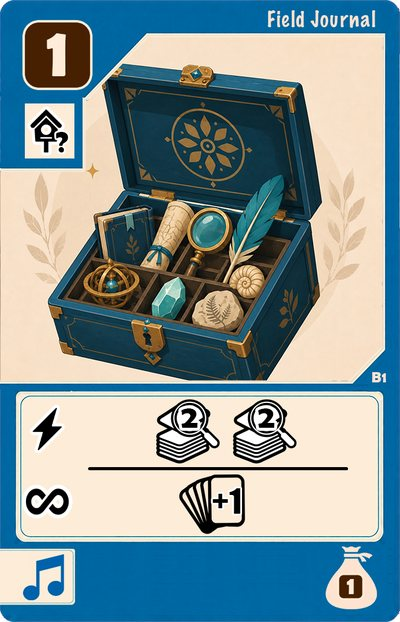
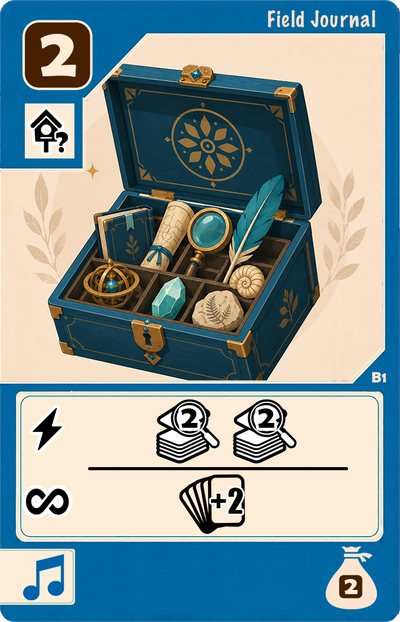
Reliques mises à jour : Field Journal, Scholar's Satchel, Surveyor's Map, Master's Diploma, Hidden Sanctuary, Soul Reliquary
Claude-Session: https://claude.ai/code/session_01SHozX5HundNPyrWALMPoiv

Changed region(s): [[0.09, 0.0305, 0.21, 0.1222], [0.51, 0.7637, 0.63, 0.8248], [0.87, 0.9164, 0.9, 0.9775]]

diff --git a/engine.js b/engine.js
@@ -110,7 +110,7 @@ class Game{
   shrineFree(p){const cap=l=>[2,3,4,5][l]+this.rm(p,4); return p.built.shrine.map(l=>({l,free:cap(l)-p.tableau.filter(e=>e.shrine===l).reduce((s,e)=>s+this.relicSpace(p,this.card(e.id)),0)}));}
   allyOK(p,c){const miss=c.req.filter(r=>!r.f(this,p)).length; return miss<=(p.allyDiscount||0);}
   birdCost(p,c){let n=c.cost; const m1=x=>Math.max(1,x);
-    if(c.family==='Academy'&&this.has(p,'OB4')) n=m1(n-2); if(c.family==='Legion'&&this.has(p,'OR4')) n=m1(n-2); if(c.family==='Circle'&&this.has(p,'OP1')) n=m1(n-1);
+    if(c.family==='Academy'&&this.has(p,'OB4')) n=m1(n-1); if(c.family==='Legion'&&this.has(p,'OR4')) n=m1(n-2); if(c.family==='Circle'&&this.has(p,'OP1')) n=m1(n-1);
     if(c.cost>=4&&this.has(p,'OY5')) n=Math.max(0,n-1); return n;}
   async anyAction(p){const isl=ISLANDS[p.flock]; const acts=this.boardActionOptions(p,isl,null);
     const o=await this.ask(p,{title:'Action au choix',options:[...acts,{label:'Jouer 1 carte',value:'play',score:1.5},{label:'Couvée',value:'brood',score:2}]});
@@ -149,12 +149,10 @@ class Game{
     await hook('ON6',null,'Forager\'s Basket : défausser 1 carte pour 1 ver + 1 graine + 1 fruit ?',async()=>{p.food.worm++;p.food.seed++;p.food.fruit++; this.eco(p,'gain',3); this.log(`${p.name} gagne 1 ver, 1 graine et 1 fruit.`);},2);}
   extras(p){const out=[];
     if(this.has(p,'ON3')&&!p.tableau.find(e=>e.id==='ON3').starTaken&&p.food.worm>=2&&p.food.seed>=2&&p.food.fruit>=2) out.push({label:'Provision Cache : payer 2/2/2 pour 1 Étoile',value:{x:'ON3'},card:'ON3',score:5});
-    if(this.has(p,'OP8')) out.push({label:'Soul Reliquary : sacrifier pour 1 Étoile',value:{x:'OP8'},card:'OP8',score:5});
     if(this.has(p,'OP7')&&!p.tableau.find(e=>e.id==='OP7').starTaken&&FAMS.some(f=>p.hand.filter(id=>(this.card(id).tagMap||{})[f]).length>=4)) out.push({label:'Black Codex : défausser 4 cartes du même tag pour 1 Étoile',value:{x:'OP7'},card:'OP7',score:4});
     return out;}
   async doExtra(p,x){const e=p.tableau.find(e=>e.id===x);
     if(x==='ON3'){p.food.worm-=2;p.food.seed-=2;p.food.fruit-=2; this.eco(p,'spent',6); e.starTaken=true; await this.gainStar(p,'Provision Cache');}
-    else if(x==='OP8'){p.tableau.splice(p.tableau.indexOf(e),1); this.discardPile.push(x); this.log(`${p.name} sacrifie Soul Reliquary.`); await this.gainStar(p,'Soul Reliquary');}
     else if(x==='OP7'){const f=FAMS.find(f=>p.hand.filter(id=>(this.card(id).tagMap||{})[f]).length>=4); for(let i=0;i<4;i++){const opts=p.hand.filter(id=>(this.card(id).tagMap||{})[f]); const id=await this.ask(p,{title:`Défaussez une carte ${f} (${i+1}/4)`,options:opts.map(id=>({label:this.card(id).name,value:id,card:id,score:0}))}); p.hand.splice(p.hand.indexOf(id),1); this.discardPile.push(id);} e.starTaken=true; await this.gainStar(p,'Black Codex');}
     this.io.render();}
   drawFromDeck(){ if(!this.deck.length){ if(!this.discardPile.length) return null; this.deck=shuffle(this.discardPile); this.discardPile=[]; this.log('La défausse est remélangée dans la pioche.'); } return this.deck.pop(); }
@@ -222,9 +220,9 @@ class Game{
   async sacrifice(p,title,value){const opts=p.tableau.filter(e=>!e.justPlayed).map(e=>({label:this.card(e.id).name,value:{e},card:e.id,score:-this.keepValue(p,{e})}));
     p.seagulls.forEach((l,k)=>opts.push({label:`Mouette (niveau ${l})`,value:{gull:k},score:-this.keepValue(p,{gull:k})}));
     if(!opts.length) return false;
-    const ok=await this.ask(p,{title:title||'Sacrifier une de vos cartes en jeu ?',options:[{label:'Oui',value:true,score:value||0},{label:'Non',value:false,score:0.5}]}); if(!ok) return false;
+    const ok=await this.ask(p,{title:title||'Sacrifier une de vos cartes en jeu ?',options:[{label:'Oui',value:true,score:(value||0)+(this.has(p,'OP8')?1.2:0)},{label:'Non',value:false,score:0.5}]}); if(!ok) return false;
     const v=await this.ask(p,{title:'Que sacrifiez-vous ?',options:opts});
-    if(v.e){p.tableau.splice(p.tableau.indexOf(v.e),1); this.discardPile.push(v.e.id); this.log(`${p.name} sacrifie ${this.card(v.e.id).name}.`); const fx=window.CARD_FX[v.e.id]; if(this.has(p,'OP5')&&fx&&fx.i&&v.e.id!=='OP5'){this.log('Sacrificial Dagger : son effet ⚡ est résolu.'); await fx.i(this,p,{id:v.e.id,ds:0});}} else {p.seagulls.splice(v.gull,1); this.log(`${p.name} sacrifie une Mouette.`);}
+    if(v.e){p.tableau.splice(p.tableau.indexOf(v.e),1); this.log(`${p.name} sacrifie ${this.card(v.e.id).name}.`); if(this.has(p,'OP8')){p.hand.push(v.e.id); this.log(`Soul Reliquary : ${this.card(v.e.id).name} revient dans la main de ${p.name}.`);} else this.discardPile.push(v.e.id); const fx=window.CARD_FX[v.e.id]; if(this.has(p,'OP5')&&fx&&fx.i&&v.e.id!=='OP5'){this.log('Sacrificial Dagger : son effet ⚡ est résolu.'); await fx.i(this,p,{id:v.e.id,ds:0});}} else {p.seagulls.splice(v.gull,1); this.log(`${p.name} sacrifie une Mouette.`);}
     return true;}
   async exchangeFood(p,n=1){for(let i=0;i<n;i++){const have=['worm','seed','fruit'].filter(t=>p.food[t]>0); if(!have.length) return;
       const g=await this.ask(p,{title:'Échanger : donner…',options:[{label:'Ne pas échanger',value:null,score:0.3},...have.map(t=>({label:'1 '+FOOD_FR[t],value:t,score:t==='worm'?0:0.4}))]}); if(!g) return;
@@ -358,7 +356,7 @@ class Game{
       else if(t.k==='gull'){ const l=p.seagulls[t.i]; this.log(`Couvée — Mouette niveau ${l}`); await this.layEgg(p,1); if(l>=2) await this.elders(p,1); }
       else { const fx=window.CARD_FX[t.e.id]; this.log(`Couvée — ${this.card(t.e.id).name}`); await fx.b(this,p,t.e); }
       this.io.render(); }
-    const lim=6+(this.has(p,'OB1')?1:0); while(p.hand.length>lim){const c=await this.ask(p,{title:`Limite de main : défaussez jusqu'à ${lim} cartes`,options:p.hand.map(id=>({label:this.card(id).name,value:id,card:id,score:-this.cardValue(p,id)}))}); p.hand.splice(p.hand.indexOf(c),1); this.discardPile.push(c);}
+    const lim=6+(this.has(p,'OB1')?2:0); while(p.hand.length>lim){const c=await this.ask(p,{title:`Limite de main : défaussez jusqu'à ${lim} cartes`,options:p.hand.map(id=>({label:this.card(id).name,value:id,card:id,score:-this.cardValue(p,id)}))}); p.hand.splice(p.hand.indexOf(c),1); this.discardPile.push(c);}
   }
   // ---------- Capacité Écaille ----------
   dsReady(p){ if((p.dsUsed||0)>=1+(this.has(p,'OG8')?1:0)) return []; return p.tableau.filter(e=>{const fx=window.CARD_FX[e.id]; return fx&&fx.d&&e.ds>=fx.dc&&(!fx.dok||fx.dok(this,p));});}
@@ -490,7 +488,8 @@ class Game{
   cgB(p,id,d=1){ const W=this.W(p); if(!W.cgoal||!this.goal(p,id)) return 0; const g=this.condGap(p,id); if(g===null||g<=0) return 0;
     const left=g-d; const late=this.players.some(q=>q.stars>=4)?1.3:1; return W.cgoal*late*(left<=0?6*W.tempo:left===1?2.6:left===2?1.6:0.9); }
   // valeur de conserver un élément en jeu (pour choisir quoi sacrifier) : on mesure ce qu'on perdrait
-  keepValue(p,it){ const was=p.tableau.slice(), wasG=p.seagulls.slice(); let item=null;
+  keepValue(p,it){ return this.keepValue0(p,it)*(it.e&&this.has(p,'OP8')&&it.e.id!=='OP8'?0.35:1);}
+  keepValue0(p,it){ const was=p.tableau.slice(), wasG=p.seagulls.slice(); let item=null;
     const snap=()=>({tags:this.tags(p),each:this.hasEachTag(p),wild:this.wild(p),perso:this.persoValue(p),b3:this.birds3(p),b4:this.birds4(p),
       red:this.objs[0].claims.includes(p.i)||this.objs[0].th[this.objs[0].claims.length]===undefined?null:this.objs[0].d.m(this,p),allies:this.allyCount(p),rel:this.relicCount(p)});
     const A=snap();
@@ -547,7 +546,7 @@ class Game{
     if(window.COND_STARS&&window.COND_STARS[id]){ let g=this.condGap(p,id); if(g===null) return 2.5;
       if(id==='OB6') g-=this.tagGain(p,c)+0;
       return late*(g<=0?T:g===1?3.5:g===2?2.5:g===3?1.5:0.5); }
-    if(id==='OP8') return T; if(id==='OG6') return 1.5;
+    if(id==='OG6') return 1.5;
     if(id==='ON3') return late*((p.food.worm>=2&&p.food.seed>=2&&p.food.fruit>=2)?T*0.8:1.5);
     if(id==='OP7'){ const mx=Math.max(...FAMS.map(f=>p.hand.filter(h=>h!==id&&(this.card(h).tagMap||{})[f]).length)); return late*(mx>=4?T*0.8:mx>=3?2:0.5); }
     if(id==='A3'){ const s=new Set(); p.hand.filter(h=>h!==id).forEach(h=>Object.keys(this.card(h).tagMap||{}).forEach(t=>s.add(t))); return FAMS.every(f=>s.has(f))?late*T:0; }

diff --git a/content.js b/content.js
@@ -52,13 +52,13 @@ const ALLIES=[
  ALLY(32,'Wild Boar',1,null,1,[reqB('nest','tundra')],'↻ Défausser 2 cartes : 1 nourriture au choix + Anciens +1. Tag joker.'),
 ];
 const RELICS=[
- RELIC('OB1','Field Journal',1,T('Academy'),0,'⚡ Révéler 2, deux fois. ∞ Limite de main +1.'),
+ RELIC('OB1','Field Journal',2,T('Academy'),0,'⚡ Révéler 2, deux fois. ∞ Limite de main +2.'),
  RELIC('OB2','Ceremonial Baton',1,T('Academy'),0,'∞ Quand vous gagnez une Étoile : pondre 1 Œuf.'),
  RELIC('OB3','Songbook',1,T('Academy'),0,'∞ Quand vous jouez une carte Academy : défausser 1 pour piocher 1.'),
- RELIC('OB4','Scholar\'s Satchel',2,T('Academy'),0,'∞ Oiseaux Academy : coût -2 (min. 1).'),
- RELIC('OB5','Surveyor\'s Map',4,T('Academy'),0,'⚡ Révéler 4, deux fois. ∞ Vos Nids valent 3 de présence.'),
+ RELIC('OB4','Scholar\'s Satchel',1,T('Academy'),0,'∞ Oiseaux Academy : coût -1 (min. 1).'),
+ RELIC('OB5','Surveyor\'s Map',4,T('Academy'),0,'⚡ Révéler 4. ∞ Vos Nids valent 3 de présence.'),
  RELIC('OB6','Star Atlas',3,T('Academy'),0,'⚡ Révéler 3. ∞ 2 tags de chaque type = 1 Étoile.'),
- RELIC('OB7','Master\'s Diploma',4,T('Academy'),0,'⚡ Défausser 1 pour piocher 1. ∞ 4 Nids = 1 Étoile.'),
+ RELIC('OB7','Master\'s Diploma',4,T('Academy'),0,'⚡ Déplacer votre Nuée sur n\'importe quelle île. ∞ 4 Nids = 1 Étoile.'),
  RELIC('OB8','Magnifying Lens',1,T('Academy'),0,'⚡ Révéler 2. ∞ Chaque révélation : +2 cartes.'),
  RELIC('OG1','Guild Contract',1,T('Guild'),0,'∞ Quand vous jouez une carte Guild : défausser 1 pour 1 Écaille ici. ◈ 1 : prochain Allié, 1 condition en moins.',1),
  RELIC('OG2','Merchant Seal',1,T('Guild'),0,'∞ Compte comme 1 Allié de plus.'),
@@ -81,9 +81,9 @@ const RELICS=[
  RELIC('OP3','Whispering Totem',3,T('Circle'),0,'∞ Quand vous jouez une carte Circle : défausser 1 pour un Poussin sur une Ruine.'),
  RELIC('OP4','Shadow Cloak',2,T('Circle'),0,'∞ Quand vous gagnez une Étoile : 1 nourriture au choix.'),
  RELIC('OP5','Sacrificial Dagger',2,T('Circle'),0,'⚡ Sacrifier 1 carte. ∞ Quand vous sacrifiez : résoudre son effet ⚡.'),
- RELIC('OP6','Hidden Sanctuary',3,T('Circle'),0,'⚡ Défausser 1 carte. ∞ 4 Runes = 1 Étoile.'),
+ RELIC('OP6','Hidden Sanctuary',4,T('Circle'),0,'∞ 4 Runes = 1 Étoile.'),
  RELIC('OP7','Black Codex',3,T('Circle'),0,'⚡ Sacrifier 1 carte. ∞ Défausser 4 cartes du même tag : 1 Étoile (une fois).'),
- RELIC('OP8','Soul Reliquary',6,T('Circle'),0,'∞ Sacrifier cette carte : 1 Étoile.'),
+ RELIC('OP8','Soul Reliquary',2,T('Circle'),0,'⚡ Sacrifier 1 carte. ∞ Quand vous sacrifiez une carte (pas une Mouette), reprenez-la en main.'),
  RELIC('OR1','Signal Horn',1,T('Legion'),0,'⚡ Déclencher un Atelier. ∞ Construire un Atelier déclenche son effet.'),
  RELIC('OR2','Recruitment Banner',2,T('Legion'),0,'∞ Quand vous gagnez une Étoile : 1 Poussin.'),
  RELIC('OR3','Watchtower Plans',2,T('Legion'),0,'∞ Vos Ateliers valent 3 de présence.'),
@@ -104,7 +104,7 @@ const RELICS=[
 // ---- effets
 const BF=t=>window.BirdsGame.BUILD_FR[t];
 const yes=(g,p,title,score)=>g.ask(p,{title,options:[{label:'Oui',value:true,score:score??1},{label:'Non',value:false,score:0.5}]});
-const selfSac=(g,p,e)=>{const k=p.tableau.indexOf(e); if(k>=0){p.tableau.splice(k,1); g.discardPile.push(e.id); g.log(`${p.name} sacrifie ${g.card(e.id).name}.`);}};
+const selfSac=(g,p,e)=>{const k=p.tableau.indexOf(e); if(k>=0){p.tableau.splice(k,1); g.log(`${p.name} sacrifie ${g.card(e.id).name}.`); if(g.has(p,'OP8')){p.hand.push(e.id); g.log(`Soul Reliquary : ${g.card(e.id).name} revient dans la main de ${p.name}.`);} else g.discardPile.push(e.id);}};
 const wormBuild=type=>async(g,p)=>{ if(p.food.worm>0&&p.left[type].length&&g.buildTargets(window.BirdsGame.ISLANDS[p.flock]).length&&await yes(g,p,`Dépenser 1 ver pour construire gratuitement ${BF(type)} ici ?`,2)){p.food.worm--; await g.buildFreeHere(p,type);}};
 const FX={
  A1:{i:async(g,p,e)=>g.placeDSthis(p,e,g.diffTags(p)),dc:5,d:async(g,p,e)=>{await g.anyAction(p); selfSac(g,p,e);}},
@@ -138,9 +138,9 @@ const FX={
  A32:{b:async(g,p)=>{if(p.hand.length>=2&&await g.discardCards(p,2,'Wild Boar : défausser 2 cartes pour 1 nourriture + Anciens +1 ?',0.6)){await g.gainAnyFood(p,1); await g.elders(p,1);}}},
  // Reliques (effets instantanés et capacités Écaille ; les effets ∞ sont dans le moteur)
  OB1:{i:async(g,p)=>{await g.search(p,2); await g.search(p,2);}},
- OB5:{i:async(g,p)=>{await g.search(p,4); await g.search(p,4);}},
+ OB5:{i:async(g,p)=>{await g.search(p,4);}},
  OB6:{i:async(g,p)=>g.search(p,3)},
- OB7:{i:async(g,p)=>{if(await g.discardCards(p,1,'Défausser 1 carte pour piocher 1 ?',0.6)) await g.draw(p,1);}},
+ OB7:{i:async(g,p)=>g.moveFlockAny(p)},
  OB8:{i:async(g,p)=>g.search(p,2)},
  OG1:{dc:1,d:async(g,p)=>{p.allyDiscount=(p.allyDiscount||0)+1; g.log(`${p.name} : le prochain Allié demande 1 condition de moins.`);}},
  OG6:{dc:4,dok:(g,p)=>!p.tableau.find(e=>e.id==='OG6').starTaken,d:async(g,p)=>{p.tableau.find(e=>e.id==='OG6').starTaken=true; await g.gainStar(p,'Guild Treasury');}},
@@ -149,7 +149,7 @@ const FX={
  ON2:{i:async(g,p)=>g.draw(p,1)},
  ON7:{i:async(g,p)=>g.draw(p,1)},
  OP5:{i:async(g,p)=>g.sacrifice(p,'Sacrificial Dagger : sacrifier 1 carte ?',0.2)},
- OP6:{i:async(g,p)=>{if(p.hand.length) await g.discardCards(p,1,'Hidden Sanctuary : défaussez 1 carte',false);}},
+ OP8:{i:async(g,p)=>g.sacrifice(p,'Soul Reliquary : sacrifier 1 carte (elle revient dans votre main) ?',0.6)},
  OP7:{i:async(g,p)=>g.sacrifice(p,'Black Codex : sacrifier 1 carte ?',0.2)},
  OR1:{i:async(g,p)=>g.triggerWorkshop(p)},
  OR6:{i:async(g,p)=>g.seagull(p,1)},

diff --git a/index.html b/index.html
@@ -343,16 +343,16 @@ small.onl{color:#1f8a8a;font-weight:600}
 <div id="zoom"></div>
 <div id="modal"></div>
 <div id="aide" style="position:fixed;inset:0;background:#0007;display:none;align-items:center;justify-content:center;z-index:70;cursor:pointer" onclick="this.style.display='none'"><img src="aide.jpg" alt="Aide de jeu" style="max-height:92vh;max-width:92vw;border-radius:12px"></div>
-<script src="data.js?v=1795518070"></script>
-<script src="content.js?v=1795518070"></script>
-<script src="engine.js?v=1795518070"></script>
-<script src="cards.js?v=1795518070"></script>
-<script src="i18n_it.js?v=1795518070"></script>
-<script src="i18n.js?v=1795518070"></script>
-<script src="stats.js?v=1795518070"></script>
-<script src="peerdb.js?v=1795518070"></script>
-<script src="tuto.js?v=1795518070"></script>
-<script src="ui.js?v=1795518070"></script>
+<script src="data.js?v=1795591965"></script>
+<script src="content.js?v=1795591965"></script>
+<script src="engine.js?v=1795591965"></script>
+<script src="cards.js?v=1795591965"></script>
+<script src="i18n_it.js?v=1795591965"></script>
+<script src="i18n.js?v=1795591965"></script>
+<script src="stats.js?v=1795591965"></script>
+<script src="peerdb.js?v=1795591965"></script>
+<script src="tuto.js?v=1795591965"></script>
+<script src="ui.js?v=1795591965"></script>
 <script>document.getElementById("statsbtn").onclick=document.getElementById("statsbtn2").onclick=()=>BirdsStatsUI.open();
 {const h=document.getElementById("homebtn"); let armed=null;
  h.onclick=()=>{ if(armed){location.reload(); return;} armed=setTimeout(()=>{armed=null; h.textContent=h.dataset.t; h.title=""; h.classList.remove("warn");},3000); h.dataset.t=h.textContent; const lg=window.I18N?I18N.lang:"fr"; h.textContent="Quitter ? ✓"; h.title=({en:"Click again to quit the game and go back home",it:"Clicca di nuovo per uscire dalla partita e tornare alla home"})[lg]||"Cliquez encore pour quitter la partie et revenir à l'accueil"; h.classList.add("warn");};}

diff --git a/i18n_it.js b/i18n_it.js
@@ -105,7 +105,7 @@ const R=[
 [/^Atelier : défausser 1 carte pour avancer d'1 case sur le Chemin des Anciens \(et déclencher vos Ateliers\) \?$/,'Laboratorio: scartare 1 carta per avanzare di 1 casella sul Sentiero degli Antichi (e attivare i tuoi Laboratori)?'],
 [/^Ant : défausser des cartes couvrant les 5 tags pour 1 Étoile \?$/,'Ant: scartare carte che coprono i 5 tag per 1 Stella?'],[/^Défaussez une carte apportant un tag manquant$/,'Scarta una carta che aggiunge un tag mancante'],
 [/^Défaussez une carte (\w+) \((\d)\/4\)$/,'Scarta una carta $1 ($2/4)'],
-[/^Provision Cache : payer 2\/2\/2 pour 1 Étoile$/,'Provision Cache: paga 2/2/2 per 1 Stella'],[/^Soul Reliquary : sacrifier pour 1 Étoile$/,'Soul Reliquary: sacrifica per 1 Stella'],
+[/^Soul Reliquary : (.+) revient dans la main de (.+)\.$/,'Soul Reliquary: $1 torna nella mano di $2.'],[/^Soul Reliquary : sacrifier 1 carte \(elle revient dans votre main\) \?$/,'Soul Reliquary: sacrificare 1 carta (torna nella tua mano)?'],[/^Provision Cache : payer 2\/2\/2 pour 1 Étoile$/,'Provision Cache: paga 2/2/2 per 1 Stella'],[/^Soul Reliquary : sacrifier pour 1 Étoile$/,'Soul Reliquary: sacrifica per 1 Stella'],
 [/^Black Codex : défausser 4 cartes du même tag pour 1 Étoile$/,'Black Codex: scarta 4 carte dello stesso tag per 1 Stella'],
 [/^(.+) — total (.+) : 5 puis 9 \(1 Étoile chacun\) · départ : (.+)$/,(m,a,b,c)=>`${a} — totale ${b}: 5 poi 9 (1 Stella ciascuno) · inizio: ${tr(c)}`],
 [/^Dépenser 1 ver pour construire gratuitement (.+) ici \?$/,(m,b)=>`Spendere 1 verme per costruire gratis ${tr(b)} qui?`],

diff --git a/i18n.js b/i18n.js
@@ -98,7 +98,7 @@ const R=[
 [/^Atelier : défausser 1 carte pour avancer d'1 case sur le Chemin des Anciens \(et déclencher vos Ateliers\) \?$/,"Workshop: discard 1 card to advance 1 space on the Elders' Path (and trigger your Workshops)?"],
 [/^Ant : défausser des cartes couvrant les 5 tags pour 1 Étoile \?$/,'Ant: discard cards covering all 5 tags for 1 Star?'],[/^Défaussez une carte apportant un tag manquant$/,'Discard a card that adds a missing tag'],
 [/^Défaussez une carte (\w+) \((\d)\/4\)$/,'Discard a $1 card ($2/4)'],
-[/^Provision Cache : payer 2\/2\/2 pour 1 Étoile$/,'Provision Cache: pay 2/2/2 for 1 Star'],[/^Soul Reliquary : sacrifier pour 1 Étoile$/,'Soul Reliquary: sacrifice for 1 Star'],
+[/^Soul Reliquary : (.+) revient dans la main de (.+)\.$/,'Soul Reliquary: $1 returns to $2\'s hand.'],[/^Soul Reliquary : sacrifier 1 carte \(elle revient dans votre main\) \?$/,'Soul Reliquary: sacrifice 1 card (it returns to your hand)?'],[/^Provision Cache : payer 2\/2\/2 pour 1 Étoile$/,'Provision Cache: pay 2/2/2 for 1 Star'],[/^Soul Reliquary : sacrifier pour 1 Étoile$/,'Soul Reliquary: sacrifice for 1 Star'],
 [/^Black Codex : défausser 4 cartes du même tag pour 1 Étoile$/,'Black Codex: discard 4 cards of the same tag for 1 Star'],
 [/^(.+) — total (.+) : 5 puis 9 \(1 Étoile chacun\) · départ : (.+)$/,(m,a,b,c)=>`${a} — total ${b}: 5 then 9 (1 Star each) · start: ${tr(c)}`],
 [/^Dépenser 1 ver pour construire gratuitement (.+) ici \?$/,(m,b)=>`Spend 1 worm to build ${tr(b)} here for free?`],
